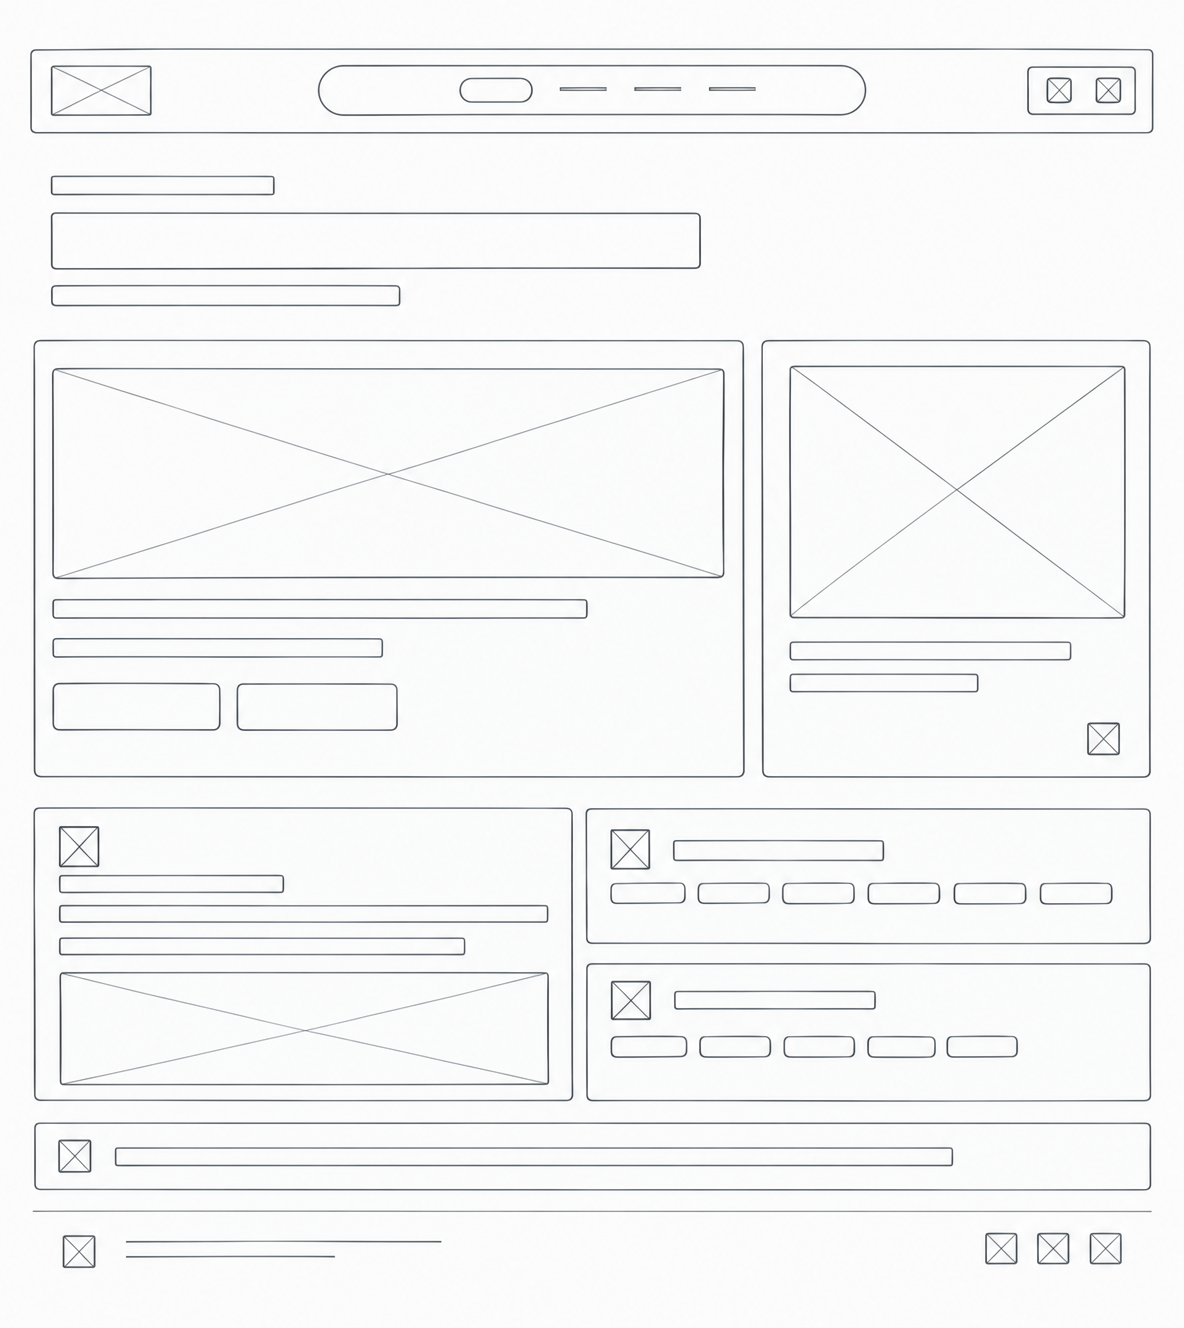
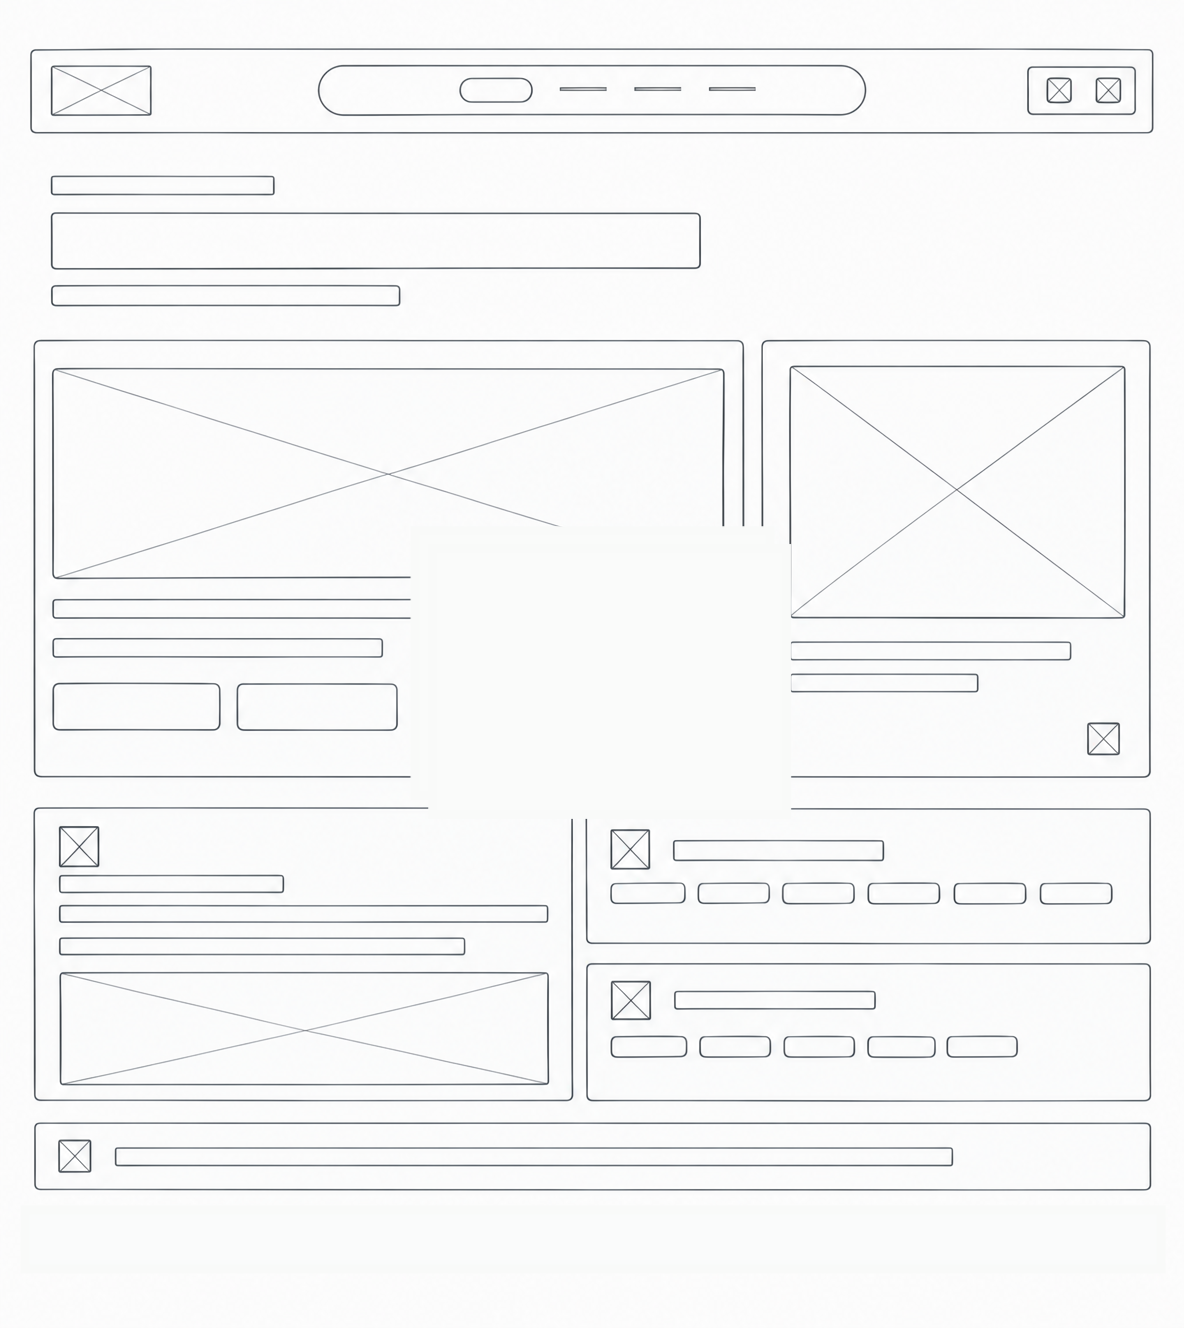
docs: adiciona os wireframes das seções experiências e contato

diff --git a/src/data/projects.js b/src/data/projects.js
@@ -141,7 +141,7 @@ export const githubProfile = "https://github.com/Nicolas-De-Almeida";
 export const projectsContent = {
     pt: {
         label: "02 / MEUS PROJETOS",
-        title: "O que eu já fiz:",
+        title: "Alguns bugs, vários aprendizados.",
         subtitle: "Do primeiro experimento ao mais recente, cada projeto me ensinou algo novo — e me tirou horas de sono.",
         githubButton: "Explorar o GitHub",
         imagePlaceholder: "Imagem do projeto em breve",
@@ -153,7 +153,7 @@ export const projectsContent = {
     },
     en: {
         label: "02 / MY PROJECTS",
-        title: "What I've built so far:",
+        title: "A Few Bugs, Plenty of Lessons.",
         subtitle: "From my first experiment to my latest release, every project has taught me something new — and cost me hours of sleep.",
         githubButton: "Explore GitHub",
         imagePlaceholder: "Project image coming soon",

diff --git a/src/pages/About.jsx b/src/pages/About.jsx
@@ -50,7 +50,7 @@ export default function About({language}) {
             <Card className="mt-6">
                 <div className="flex flex-col gap-6 md:flex-row md:items-center md:justify-between">
                     <div>
-                        <h2 className="text-lg font-semibold text-white">
+                        <h2 className="text-lg font-bold text-violet-400">
                             {about.technologiesTitle}
                         </h2>
                     </div>
